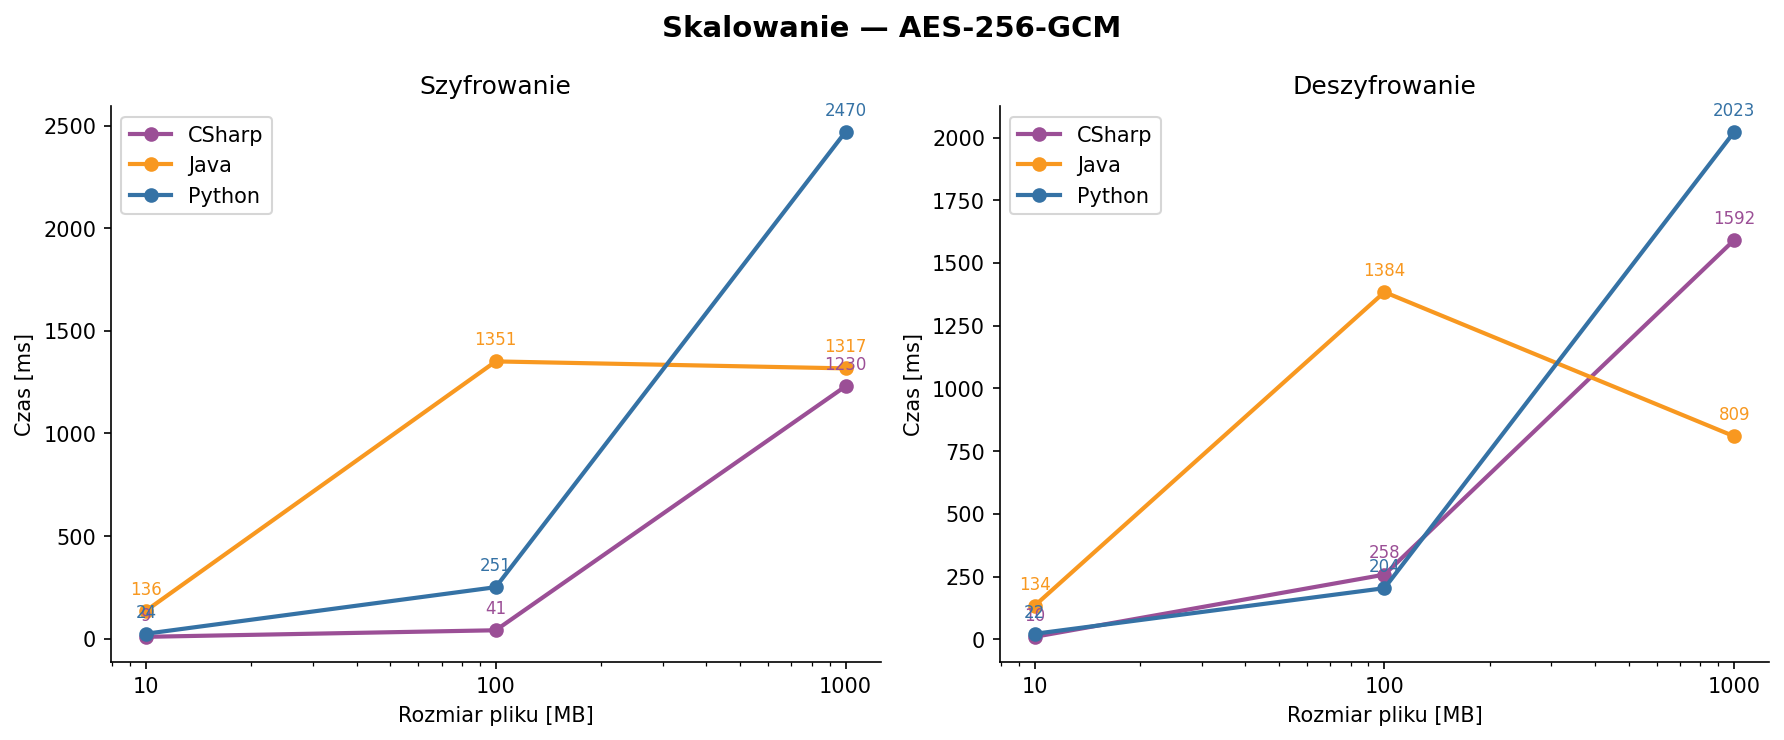
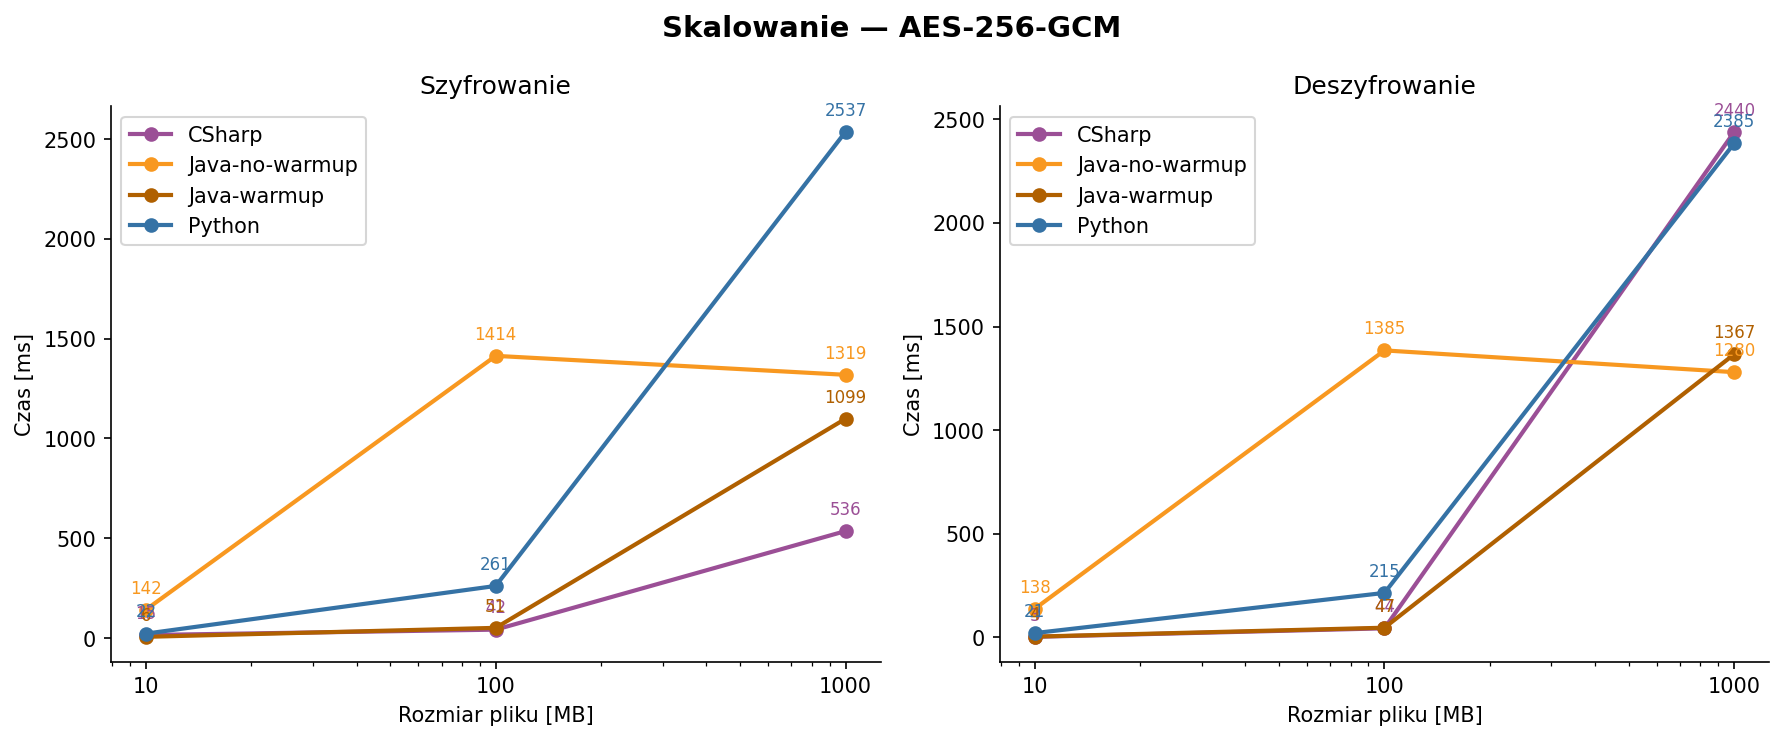
feat: implement multi-language crypto benchmark framework with automated visualization charting

diff --git a/csharp/Program.cs b/csharp/Program.cs
@@ -13,6 +13,7 @@ const int Runs = 3;
 foreach (int sizeMb in sizes)
 {
     string path = Path.Combine(testFilesDir, $"test_{sizeMb}mb.bin");
+    RunBenchmark("TripleDES",        sizeMb, path, new TripleDesBenchmark());
     RunBenchmark("AES-256-GCM",      sizeMb, path, new AesBenchmark());
     RunBenchmark("ChaCha20-Poly1305", sizeMb, path, new ChaChaBenchmark());
 }
@@ -25,6 +26,10 @@ void RunBenchmark(string algorithm, int sizeMb, string filePath, ICipher cipher)
 {
     Console.WriteLine($"[C#] {algorithm} | {sizeMb} MB");
 
+    System.Runtime.GCSettings.LargeObjectHeapCompactionMode = System.Runtime.GCLargeObjectHeapCompactionMode.CompactOnce;
+    GC.Collect();
+    GC.WaitForPendingFinalizers();
+
     byte[] original = File.ReadAllBytes(filePath);
 
     long[] encMs = new long[Runs];
@@ -34,6 +39,7 @@ void RunBenchmark(string algorithm, int sizeMb, string filePath, ICipher cipher)
 
     for (int i = 0; i < Runs; i++)
     {
+        System.Runtime.GCSettings.LargeObjectHeapCompactionMode = System.Runtime.GCLargeObjectHeapCompactionMode.CompactOnce;
         GC.Collect();
         GC.WaitForPendingFinalizers();
         long ramBefore = GC.GetTotalMemory(true);
@@ -53,7 +59,11 @@ void RunBenchmark(string algorithm, int sizeMb, string filePath, ICipher cipher)
 
         if (!original.AsSpan().SequenceEqual(decrypted))
             integrity = false;
+
+        encrypted = null;
+        decrypted = null;
     }
+    original = null;
 
     long encMed = Median(encMs);
     long decMed = Median(decMs);
@@ -151,6 +161,79 @@ class ChaChaBenchmark : ICipher
 
         using var chacha = new ChaCha20Poly1305(_key);
         chacha.Decrypt(nonce, ciphertext, tag, plaintext);
+        return plaintext;
+    }
+}
+
+// TripleDES
+// Format: [ iv (8 B) | ciphertext ]
+class TripleDesBenchmark : ICipher
+{
+    private readonly byte[] _key = RandomNumberGenerator.GetBytes(24);
+
+    public byte[] Encrypt(byte[] plaintext)
+    {
+        byte[] iv = RandomNumberGenerator.GetBytes(8);
+        int maxPaddedLength = (plaintext.Length / 8 + 1) * 8;
+        byte[] result = new byte[8 + maxPaddedLength];
+        iv.CopyTo(result, 0);
+
+        using var tdes = TripleDES.Create();
+        tdes.Key = _key;
+        tdes.Mode = CipherMode.CBC;
+        tdes.Padding = PaddingMode.PKCS7;
+        tdes.IV = iv;
+
+        int totalBytesWritten = 0;
+        using (var ms = new MemoryStream(result, 8, maxPaddedLength, true))
+        using (var encryptor = tdes.CreateEncryptor())
+        using (var cs = new CryptoStream(ms, encryptor, CryptoStreamMode.Write))
+        {
+            cs.Write(plaintext, 0, plaintext.Length);
+            cs.FlushFinalBlock();
+            totalBytesWritten = (int)ms.Position;
+        }
+
+        if (8 + totalBytesWritten < result.Length)
+        {
+            Array.Resize(ref result, 8 + totalBytesWritten);
+        }
+
+        return result;
+    }
+
+    public byte[] Decrypt(byte[] blob)
+    {
+        byte[] iv = new byte[8];
+        Array.Copy(blob, 0, iv, 0, 8);
+
+        using var tdes = TripleDES.Create();
+        tdes.Key = _key;
+        tdes.Mode = CipherMode.CBC;
+        tdes.Padding = PaddingMode.PKCS7;
+        tdes.IV = iv;
+
+        byte[] plaintext = new byte[blob.Length - 8];
+        int totalBytesRead = 0;
+
+        using (var ms = new MemoryStream(blob, 8, blob.Length - 8, false))
+        using (var decryptor = tdes.CreateDecryptor())
+        using (var cs = new CryptoStream(ms, decryptor, CryptoStreamMode.Read))
+        {
+            int offset = 0;
+            int bytesRead;
+            while ((bytesRead = cs.Read(plaintext, offset, plaintext.Length - offset)) > 0)
+            {
+                offset += bytesRead;
+            }
+            totalBytesRead = offset;
+        }
+
+        if (totalBytesRead < plaintext.Length)
+        {
+            Array.Resize(ref plaintext, totalBytesRead);
+        }
+
         return plaintext;
     }
 }

diff --git a/python/benchmark.py b/python/benchmark.py
@@ -5,6 +5,8 @@ import csv
 from datetime import datetime, timezone
 
 from cryptography.hazmat.primitives.ciphers.aead import AESGCM, ChaCha20Poly1305
+from cryptography.hazmat.primitives.ciphers import Cipher, algorithms, modes
+from cryptography.hazmat.primitives import padding
 
 RESULTS_FILE   = os.environ.get("RESULTS_FILE",   "/results/benchmark_results.csv")
 TEST_FILES_DIR = os.environ.get("TEST_FILES_DIR", "/test-files")
@@ -29,6 +31,29 @@ def chacha_encrypt(key, plaintext):
 
 def chacha_decrypt(key, blob):
     return ChaCha20Poly1305(key).decrypt(blob[:12], blob[12:], None)
+
+# -------------------------------------------------------------------------
+
+def triple_des_encrypt(key, plaintext):
+    iv = os.urandom(8)
+    padder = padding.PKCS7(64).padder()
+    padded_data = padder.update(plaintext) + padder.finalize()
+    
+    cipher = Cipher(algorithms.TripleDES(key), modes.CBC(iv))
+    encryptor = cipher.encryptor()
+    ct = encryptor.update(padded_data) + encryptor.finalize()
+    return iv + ct
+
+def triple_des_decrypt(key, blob):
+    iv = blob[:8]
+    ct = blob[8:]
+    
+    cipher = Cipher(algorithms.TripleDES(key), modes.CBC(iv))
+    decryptor = cipher.decryptor()
+    padded_data = decryptor.update(ct) + decryptor.finalize()
+    
+    unpadder = padding.PKCS7(64).unpadder()
+    return unpadder.update(padded_data) + unpadder.finalize()
 
 # -------------------------------------------------------------------------
 
@@ -85,5 +110,6 @@ if __name__ == "__main__":
     for size_mb in FILE_SIZES_MB:
         run_benchmark("Python",      "AES-256-GCM",      size_mb, aes_encrypt,   aes_decrypt,   AESGCM.generate_key(bit_length=256))
         run_benchmark("Python",      "ChaCha20-Poly1305", size_mb, chacha_encrypt, chacha_decrypt, ChaCha20Poly1305.generate_key())
+        run_benchmark("Python",      "TripleDES",        size_mb, triple_des_encrypt, triple_des_decrypt, os.urandom(24))
 
     print(f"{RESULTS_FILE}")

diff --git a/java/src/TripleDesCipher.java b/java/src/TripleDesCipher.java
@@ -1,0 +1,46 @@
+import javax.crypto.Cipher;
+import javax.crypto.KeyGenerator;
+import javax.crypto.SecretKey;
+import javax.crypto.spec.IvParameterSpec;
+import java.security.SecureRandom;
+import java.util.Arrays;
+
+public class TripleDesCipher implements CipherStrategy {
+
+    private static final int KEY_SIZE   = 168; // 3 keys * 56 bits (excluding parity)
+    private static final int IV_SIZE    = 8;
+
+    private final SecretKey    key;
+    private final SecureRandom rng = new SecureRandom();
+
+    public TripleDesCipher() throws Exception {
+        KeyGenerator kg = KeyGenerator.getInstance("DESede");
+        kg.init(KEY_SIZE, rng);
+        key = kg.generateKey();
+    }
+
+    @Override
+    public byte[] encrypt(byte[] plaintext) throws Exception {
+        byte[] iv = new byte[IV_SIZE];
+        rng.nextBytes(iv);
+
+        Cipher cipher = Cipher.getInstance("DESede/CBC/PKCS5Padding");
+        cipher.init(Cipher.ENCRYPT_MODE, key, new IvParameterSpec(iv));
+        byte[] enc = cipher.doFinal(plaintext);
+
+        byte[] out = new byte[IV_SIZE + enc.length];
+        System.arraycopy(iv,  0, out, 0,       IV_SIZE);
+        System.arraycopy(enc, 0, out, IV_SIZE, enc.length);
+        return out;
+    }
+
+    @Override
+    public byte[] decrypt(byte[] ciphertext) throws Exception {
+        byte[] iv      = Arrays.copyOfRange(ciphertext, 0,       IV_SIZE);
+        byte[] payload = Arrays.copyOfRange(ciphertext, IV_SIZE, ciphertext.length);
+
+        Cipher cipher = Cipher.getInstance("DESede/CBC/PKCS5Padding");
+        cipher.init(Cipher.DECRYPT_MODE, key, new IvParameterSpec(iv));
+        return cipher.doFinal(payload);
+    }
+}

diff --git a/java/src/AesCbcCipher.java b/java/src/AesCbcCipher.java
@@ -1,0 +1,46 @@
+import javax.crypto.Cipher;
+import javax.crypto.KeyGenerator;
+import javax.crypto.SecretKey;
+import javax.crypto.spec.IvParameterSpec;
+import java.security.SecureRandom;
+import java.util.Arrays;
+
+public class AesCbcCipher implements CipherStrategy {
+
+    private static final int KEY_SIZE = 256;
+    private static final int IV_SIZE  = 16;
+
+    private final SecretKey    key;
+    private final SecureRandom rng = new SecureRandom();
+
+    public AesCbcCipher() throws Exception {
+        KeyGenerator kg = KeyGenerator.getInstance("AES");
+        kg.init(KEY_SIZE, rng);
+        key = kg.generateKey();
+    }
+
+    @Override
+    public byte[] encrypt(byte[] plaintext) throws Exception {
+        byte[] iv = new byte[IV_SIZE];
+        rng.nextBytes(iv);
+
+        Cipher cipher = Cipher.getInstance("AES/CBC/PKCS5Padding");
+        cipher.init(Cipher.ENCRYPT_MODE, key, new IvParameterSpec(iv));
+        byte[] enc = cipher.doFinal(plaintext);
+
+        byte[] out = new byte[IV_SIZE + enc.length];
+        System.arraycopy(iv,  0, out, 0,       IV_SIZE);
+        System.arraycopy(enc, 0, out, IV_SIZE, enc.length);
+        return out;
+    }
+
+    @Override
+    public byte[] decrypt(byte[] ciphertext) throws Exception {
+        byte[] iv      = Arrays.copyOfRange(ciphertext, 0,       IV_SIZE);
+        byte[] payload = Arrays.copyOfRange(ciphertext, IV_SIZE, ciphertext.length);
+
+        Cipher cipher = Cipher.getInstance("AES/CBC/PKCS5Padding");
+        cipher.init(Cipher.DECRYPT_MODE, key, new IvParameterSpec(iv));
+        return cipher.doFinal(payload);
+    }
+}

diff --git a/java/src/CryptoBenchmark.java b/java/src/CryptoBenchmark.java
@@ -14,10 +14,31 @@ public class CryptoBenchmark {
     private static final int   RUNS          = 3;
 
     public static void main(String[] args) throws Exception {
+        System.out.println("Warming up JVM (10,000 iterations)...");
+        byte[] dummy = new byte[1024]; // 1KB for speed
+        CipherStrategy warmupGcm = new AesGcmCipher();
+        CipherStrategy warmupChacha = new ChaCha20Cipher();
+        CipherStrategy warmupTdes = new TripleDesCipher();
+        
+        for (int i = 0; i < 10000; i++) {
+            byte[] encGcm = warmupGcm.encrypt(dummy);
+            warmupGcm.decrypt(encGcm);
+            
+            byte[] encChacha = warmupChacha.encrypt(dummy);
+            warmupChacha.decrypt(encChacha);
+            
+            byte[] encTdes = warmupTdes.encrypt(dummy);
+            warmupTdes.decrypt(encTdes);
+        }
+        dummy = null;
+        System.gc();
+        System.out.println("Warmup complete. Starting benchmarks.");
+
         for (int sizeMb : FILE_SIZES_MB) {
             Path testFile = Paths.get(TEST_FILES_DIR, "test_" + sizeMb + "mb.bin");
             runBenchmark("AES-256-GCM",      new AesGcmCipher(),   testFile, sizeMb);
             runBenchmark("ChaCha20-Poly1305", new ChaCha20Cipher(), testFile, sizeMb);
+            runBenchmark("TripleDES",        new TripleDesCipher(), testFile, sizeMb);
         }
 
         System.out.println(RESULTS_FILE);

diff --git a/visualize/visualize.py b/visualize/visualize.py
@@ -29,10 +29,11 @@ algorithms = sorted(set(r["algorithm"] for r in rows))
 sizes      = sorted(set(r["size_mb"]   for r in rows))
 
 COLORS = {
-    "Java":        "#f89820",
-    "CSharp":      "#9b4f96",
-    "Python":      "#3572A5",
-    "Python-pure": "#e05d44",
+    "Java-no-warmup": "#f89820",
+    "Java-warmup":    "#b06000",
+    "CSharp":         "#9b4f96",
+    "Python":         "#3572A5",
+    "Python-pure":      "#e05d44",
 }
 
 def color(lang):
